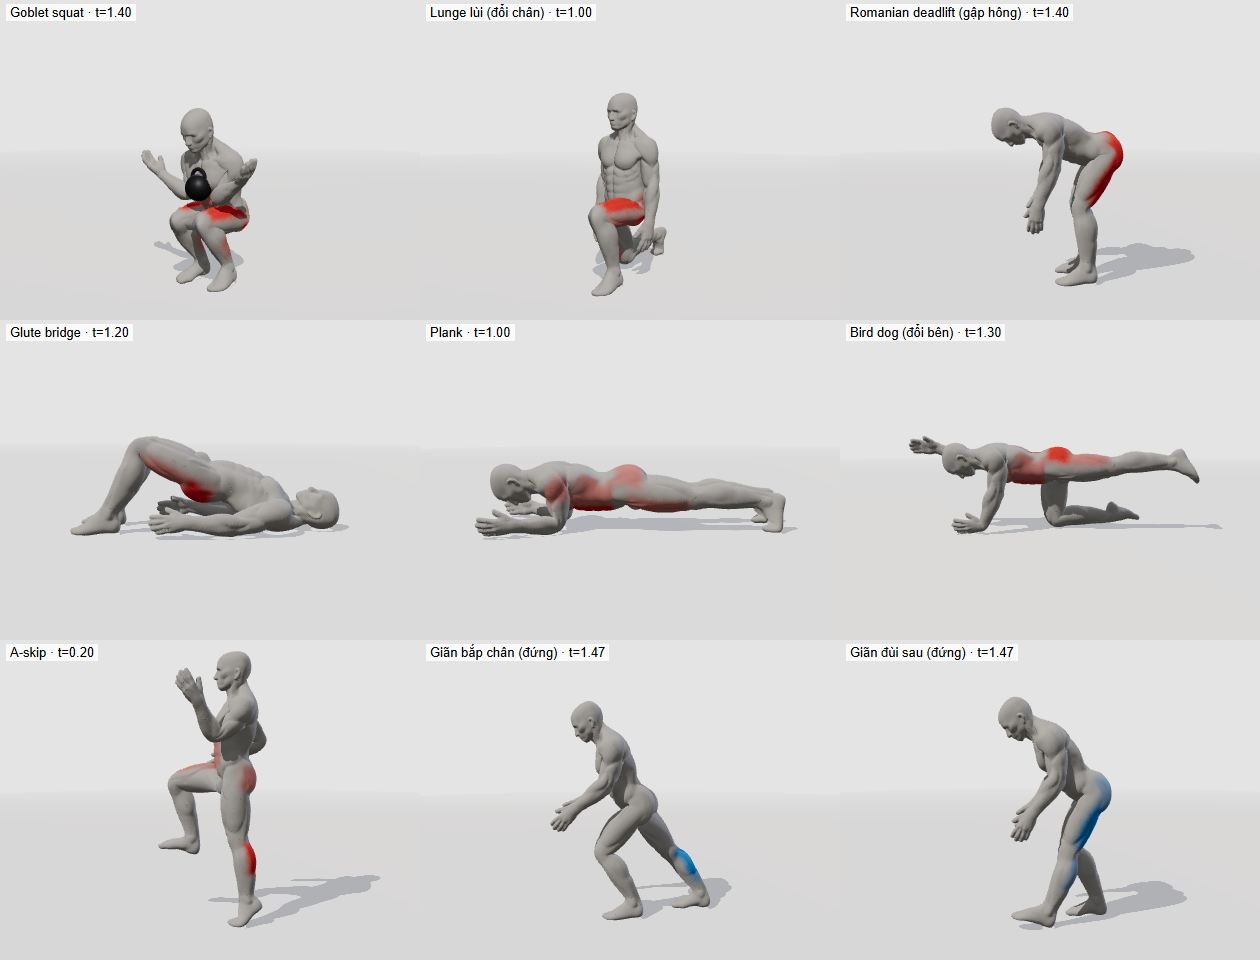
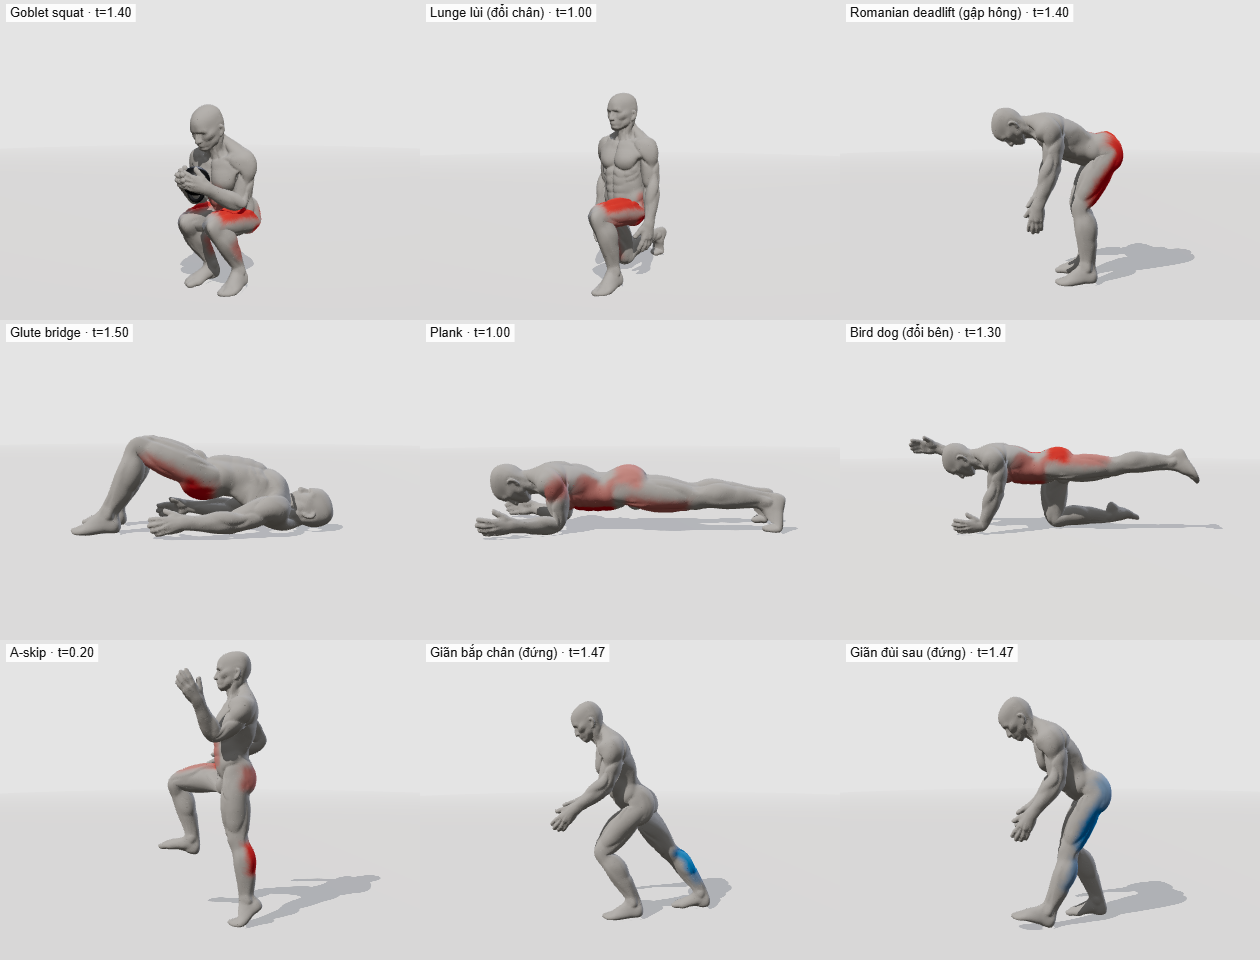
docs: add MIT license, 3D model credits and live demo link
- LICENSE (MIT) for the source code.
- README: live demo link and CI badge, "License & credits" section (model
  made with Google Gemini + Tencent Hunyuan3D, auto-rigged with Mixamo, not
  covered by MIT; Hunyuan3D license terms), model pipeline, mobile support.
- Refresh the exercise screenshot grid.

diff --git a/README.md b/README.md
@@ -1,5 +1,9 @@
 # Exercise Muscles 3D
 
+[![CI](https://github.com/vu-storm/exercise-muscles-3d/actions/workflows/ci.yml/badge.svg)](https://github.com/vu-storm/exercise-muscles-3d/actions/workflows/ci.yml)
+
+**▶ Xem trực tiếp: <https://vu-storm.github.io/exercise-muscles-3d/>** (máy tính và điện thoại)
+
 **Web 3D mô phỏng nhóm cơ hoạt động trong các động tác thể dục**: mô hình người écorché (lộ cơ) thực hiện
 động tác, nhóm cơ đang **co** tô đỏ, cơ đang được **kéo giãn** tô xanh, độ đậm theo biên độ
 động tác. Kèm số đo góc khớp trực tiếp và gợi ý kỹ thuật cho từng bài.
@@ -22,6 +26,8 @@ kiểm tra tư thế (chạm sàn, không xuyên sàn, thăng bằng) trước k
   trước / bên / chéo (mỗi bài tự chọn góc nhìn phù hợp). Mặc định mô hình đứng yên, chọn
   động tác mới bắt đầu.
 - **Đạo cụ** — bục step-up, tạ ấm goblet squat.
+- **Dùng được trên điện thoại** — bảng điều khiển thu gọn thành thanh dưới đáy, camera tự căn
+  theo khổ màn hình dọc.
 
 ![Giao diện](docs/giao-dien.png)
 
@@ -35,6 +41,9 @@ npm run dev       # mở http://localhost:5173
 npm run build     # đóng gói vào dist/ (web tĩnh)
 npm run check     # tự kiểm tra mọi động tác (Node, không cần trình duyệt)
 ```
+
+Mỗi lần push, GitHub Actions chạy `npm run check` + build; push lên `main` thì tự triển khai lên
+GitHub Pages ([.github/workflows/ci.yml](.github/workflows/ci.yml)).
 
 Trình chiếu một khung hình cố định bằng tham số URL, ví dụ
 `?ex=plank&t=1&view=side&ui=0` — `ex` động tác, `t` giây, `view` front/side/threeQuarter,
@@ -90,12 +99,30 @@ src/angles.js        bảng số đo + cung góc gối
 src/ui.js            bảng điều khiển
 src/exercises/       dữ liệu động tác + build.js (góc → animation), compose.js (đổi chân, ghép),
                      check.js (tự kiểm tra), props.js (đạo cụ)
-tools/               check-exercise.mjs (npm run check), tune-contacts.mjs (giải góc tiếp xúc)
+tools/               check-exercise.mjs (npm run check), tune-contacts.mjs (giải góc tiếp xúc),
+                     prepare-model.mjs (npm run model: chuẩn bị file mô hình cho web)
 docs/                hướng dẫn kỹ thuật, ảnh minh hoạ
 ```
 
 ## Công nghệ
 
 [three.js](https://threejs.org/) · [Vite](https://vitejs.dev/) · JavaScript thuần (không framework).
-Mô hình: người écorché cao 1,8 m, khung xương Mixamo 41 xương, animation Air Squat
-(`public/ecorche_air_squat.glb`).
+Mô hình: người écorché cao 1,8 m, khung xương 41 xương (đặt tên theo Mixamo), **không kèm
+animation** — mọi động tác dựng bằng code từ góc khớp (`public/ecorche.glb`, nén meshopt, ~0,7 MB).
+
+`public/ecorche.glb` được tạo từ file xuất ra Blender bằng `npm run model -- <file gốc.glb>`:
+bỏ mọi animation, sửa pháp tuyến lỗi của lưới tạo tự động, nén lưới. File gốc để trong
+`assets-src/` (không đưa lên repo).
+
+## Giấy phép & ghi công
+
+- **Mã nguồn**: [MIT](LICENSE).
+- **Mô hình 3D** (`public/ecorche.glb`) **không** thuộc giấy phép MIT ở trên:
+  - Hình dạng người được tạo bằng **Google Gemini** (ảnh tham chiếu) và
+    **[Tencent Hunyuan3D](https://github.com/Tencent/Hunyuan3D-2)** (ảnh → lưới 3D). Phần sinh
+    bởi Hunyuan3D chịu điều khoản của *Tencent Hunyuan 3D Community License* — giấy phép này giới
+    hạn khu vực được sử dụng và quy mô dùng thương mại; đọc kỹ
+    [điều khoản](https://github.com/Tencent/Hunyuan3D-2/blob/main/LICENSE) trước khi dùng mô hình
+    cho sản phẩm thương mại.
+  - Khung xương gắn tự động bằng **[Adobe Mixamo](https://www.mixamo.com/)**. Repo không chứa
+    animation hay nhân vật nào của Mixamo; động tác đều dựng bằng code trong `src/exercises/`.
